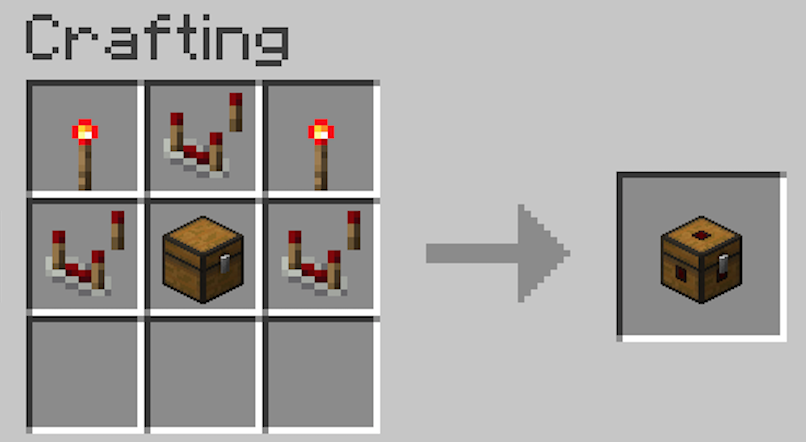
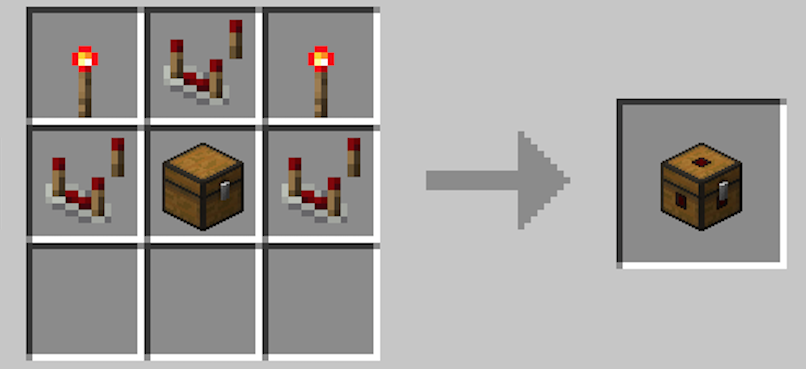
curseforge updates

diff --git a/etc/curseforge-description.html b/etc/curseforge-description.html
@@ -20,14 +20,20 @@
     </li>
 </ul>
 
+
+
 <p></p>
 
 <h3>Recipe</h3>
-<a href='https://www.curseforge.com/minecraft/mc-mods/copper-hopper/screenshots'>
-    <img src='https://media.forgecdn.net/attachments/430/829/copper-hopper-crafting.png' />
+<a href='https://media.forgecdn.net/attachments/435/806/recipe.png'>
+    <img width='300' src='https://media.forgecdn.net/attachments/435/806/recipe.png' />
 </a>
+<p></p>
 
-
+<h3>Block</h3>
+<a href='https://media.forgecdn.net/attachments/435/799/block.png'>
+    <img width='300' src='https://media.forgecdn.net/attachments/435/799/block.png' />
+</a>
 <p></p>
 
 
@@ -45,6 +51,9 @@
         don't match any of the Sorting Chests.
     </li>
 </ul>
+<a width='400' href='https://media.forgecdn.net/attachments/435/801/use.png'>
+    <img src='https://media.forgecdn.net/attachments/435/801/use.png' />
+</a>
 
 
 
@@ -66,11 +75,6 @@
     </li>
     <li>They always keep the last item of a type that is held in the hopper.</li>
 </ul>
-
-<p>
-    So, just put an item in one of the regular hopper slots to "set" a filter. That item will never be pulled or pushed
-    out of the hopper. And the hopper will now only accept items of that type.
-</p>
 
 <p></p>
 
